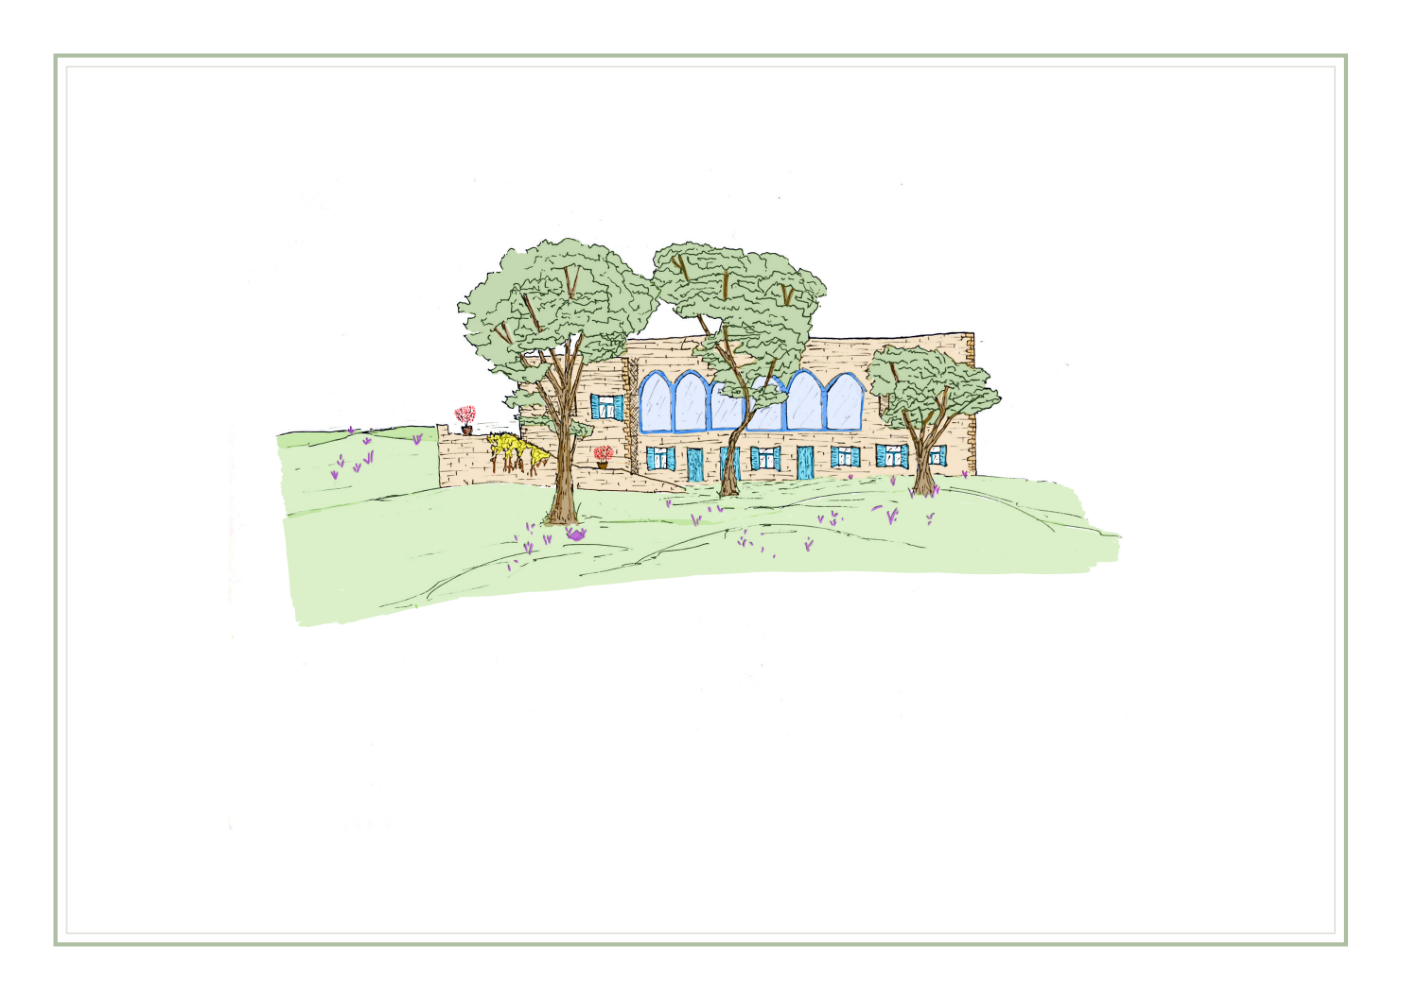
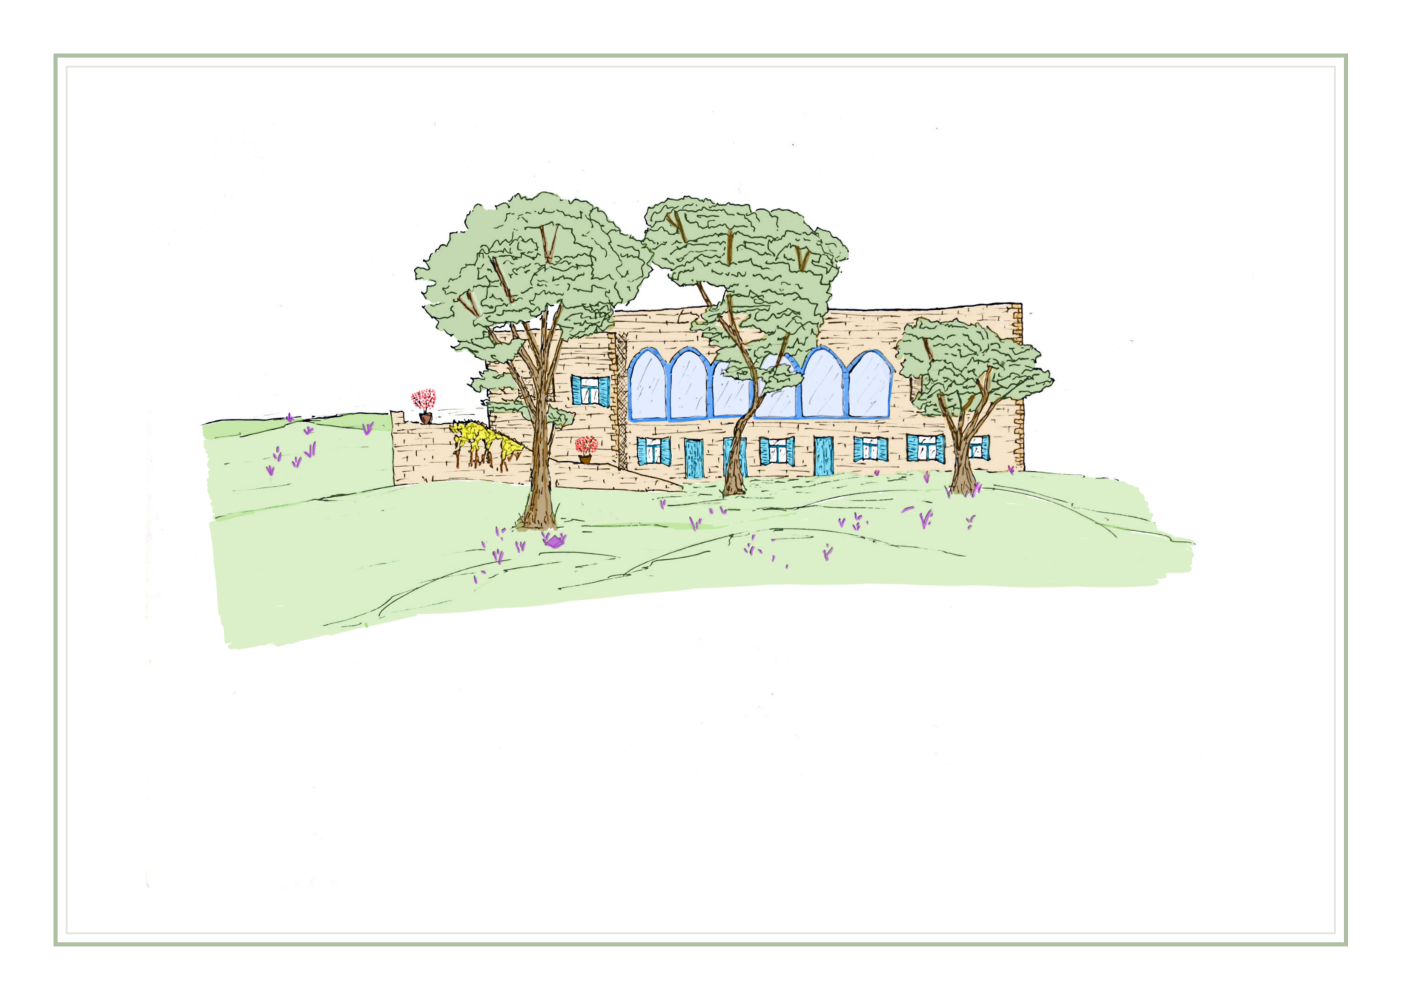
Enlarge centred verso illustration; point site + QR at Cloudflare Pages URL (#27)
- Faire-part verso: illustration enlarged (iw 340->400), centred, fills the page
- Switch all absolute URLs to https://mariage-andre-rhea-geha.pages.dev
  (og:url, og:image, twitter:image, Web3Forms redirect) + the card QR (SITE)
- Web3Forms is host-independent, so the form keeps working on the new domain

Claude-Session: https://claude.ai/code/session_01Wi2TL2Ecb6DLgMXuheYsrH

Changed region(s): [[0.1227, 0.186, 0.8588, 0.651]]

diff --git a/index.html b/index.html
@@ -18,15 +18,15 @@
   <meta property="og:description" content="Le samedi 22 août 2026 au Liban. Rejoignez-nous pour célébrer." />
   <meta property="og:type" content="website" />
   <meta property="og:locale" content="fr_FR" />
-  <meta property="og:url" content="https://andregeha.github.io/wedding-website/" />
-  <meta property="og:image" content="https://andregeha.github.io/wedding-website/assets/img/og-image.png" />
+  <meta property="og:url" content="https://mariage-andre-rhea-geha.pages.dev/" />
+  <meta property="og:image" content="https://mariage-andre-rhea-geha.pages.dev/assets/img/og-image.png" />
   <meta property="og:image:width" content="1200" />
   <meta property="og:image:height" content="630" />
   <meta property="og:image:alt" content="André & Rhéa — samedi 22 août 2026" />
   <meta name="twitter:card" content="summary_large_image" />
   <meta name="twitter:title" content="André & Rhéa — Notre mariage" />
   <meta name="twitter:description" content="Le samedi 22 août 2026 au Liban. Rejoignez-nous pour célébrer." />
-  <meta name="twitter:image" content="https://andregeha.github.io/wedding-website/assets/img/og-image.png" />
+  <meta name="twitter:image" content="https://mariage-andre-rhea-geha.pages.dev/assets/img/og-image.png" />
 
   <link rel="preconnect" href="https://fonts.googleapis.com" />
   <link rel="preconnect" href="https://fonts.gstatic.com" crossorigin />
@@ -123,7 +123,7 @@
           <input type="hidden" name="subject" value="Nouveau RSVP — mariage André & Rhéa" />
           <input type="hidden" name="from_name" value="Site mariage André & Rhéa" />
           <!-- Repli sans JavaScript : redirige vers le site après envoi -->
-          <input type="hidden" name="redirect" value="https://andregeha.github.io/wedding-website/#presence" />
+          <input type="hidden" name="redirect" value="https://mariage-andre-rhea-geha.pages.dev/#presence" />
           <!-- Honeypot anti-spam : doit rester vide -->
           <input type="checkbox" name="botcheck" tabindex="-1" autocomplete="off" aria-hidden="true" style="display:none !important" />
 

diff --git a/assets/print/generate_invitation.py b/assets/print/generate_invitation.py
@@ -46,8 +46,8 @@ RECEPTION = ("RÉCEPTION · 18 h 30", "Hôtel Al Bustan", "Beit Mery, Mont-Liban
 GIFT_TITLE = "LISTE DE MARIAGE"
 GIFT_LB = "Liban · USD   —   André Geha &/ou Rhéa Nacouzi   ·   BIC BLOMLBBX   ·   LB90 0014 0000 2102 6732 6609 4314"
 GIFT_FR = "France · EUR   —   André Geha   ·   BIC REVOFRP2   ·   FR76 2823 3000 0144 2006 8520 030"
-# Site URL encoded by the recto QR (GitHub redirects keep it valid after a custom domain)
-SITE = "https://andregeha.github.io/wedding-website/"
+# Site URL encoded by the recto QR — the Cloudflare Pages address (neutral, no GitHub username)
+SITE = "https://mariage-andre-rhea-geha.pages.dev/"
 
 INK   = colors.Color(43/255, 43/255, 41/255)
 SAGE  = colors.Color(95/255, 125/255, 99/255)
@@ -132,9 +132,9 @@ def build():
     renderPDF.draw(dwg, c, gx + capw + gap, H-(qy_top+qs))
     c.showPage()
 
-    # ===================== VERSO — just the illustration, very large =====================
+    # ===================== VERSO — just the illustration, very large, centred =====================
     border()
-    iw = 340; ih = iw*img.height/img.width
+    iw = 400; ih = iw*img.height/img.width
     c.drawImage(ImageReader(img), cx-iw/2, (H-ih)/2, width=iw, height=ih)
     c.showPage()
 

diff --git a/.claude/memory/changelog.md b/.claude/memory/changelog.md
@@ -2,6 +2,19 @@
 
 Dated log of what changed each session. Newest at top.
 
+## 2026-06-30 (5) — Verso drawing enlarged + Cloudflare Pages domain
+- **Faire-part verso**: illustration enlarged (iw 340 → 400) and kept centred — the « high »
+  look was the faint lawn foreground; bigger fills the page so it reads as a centred hero.
+- **Hosting → Cloudflare Pages** (client choice B, free, hides GitHub username). Target URL
+  **`https://mariage-andre-rhea-geha.pages.dev`** (note: `.pages.dev`, no `www`, not `.pages.app`).
+  Updated all absolute URLs in `index.html` (og:url, og:image, twitter:image, Web3Forms
+  `redirect`) and the **card QR** (`SITE`) to the pages.dev address.
+- **Web3Forms still works** from any domain (browser POST to api.web3forms.com with the public
+  key — host-independent). Client must connect the repo in Cloudflare (project name
+  `mariage-andre-rhea-geha`, no build, output dir = root). GitHub Pages can stay as a mirror.
+- ⚠️ Don't print the card until the Cloudflare site is confirmed live at that exact URL
+  (the QR has no redirect if the URL never existed).
+
 ## 2026-06-30 (4) — Faire-part: full content on the recto, big drawing on the verso
 - Reworked the card so the **recto holds everything** (parents, names, date, **illustration
   back on the recto**, cérémonie/réception, both gift accounts, and a small QR + « Infos,

diff --git a/.claude/memory/tasks.md b/.claude/memory/tasks.md
@@ -8,10 +8,17 @@
 - [x] `index.html` rebuilt with real French content; sage-green accent + faire-part date motif.
 
 ## Now (blocked on client)
-- [ ] Client: **buy `mariage-andre-et-rhea.com`** (fallback `…-2026.com`) + set DNS
-      (apex A/AAAA to GitHub Pages + `www` CNAME → andregeha.github.io). Then tell me →
-      I add the repo `CNAME` file, update absolute URLs, and we enable Enforce HTTPS.
+- [ ] Client: **connect the repo to Cloudflare Pages** → URL `mariage-andre-rhea-geha.pages.dev`.
+      Steps: Cloudflare dash → Workers & Pages → Create → Pages → Connect to Git → pick
+      `andregeha/wedding-website`, branch `main`, **Framework preset = None, Build command =
+      empty, Output directory = `/`** → Save & Deploy. Repo URLs + card QR already point there.
+      Once live, **confirm the exact URL** so we can print the card. (Web3Forms works as-is.)
+- [ ] Optional later: custom domain `mariage-andre-et-rhea.com` (can be added on top of either
+      GitHub Pages or Cloudflare Pages) — would replace the `.pages.dev` URL + QR.
+
 ## Done (recent)
+- [x] 2026-06-30 (5): faire-part verso illustration enlarged & centred; site + card QR moved
+      to Cloudflare Pages URL `mariage-andre-rhea-geha.pages.dev` (absolute URLs updated).
 - [x] 2026-06-30 (2): **EUR/France account added** (Revolut, `REVOFRP2`,
       `FR76 2823 3000 0144 2006 8520 030`) on site + faire-part; site sections reordered
       (Jour J / Présence / Programme / Liste de mariage) with alternating backgrounds;